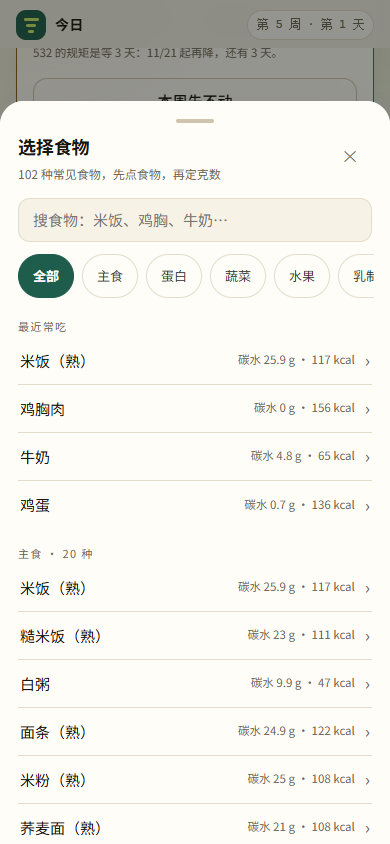
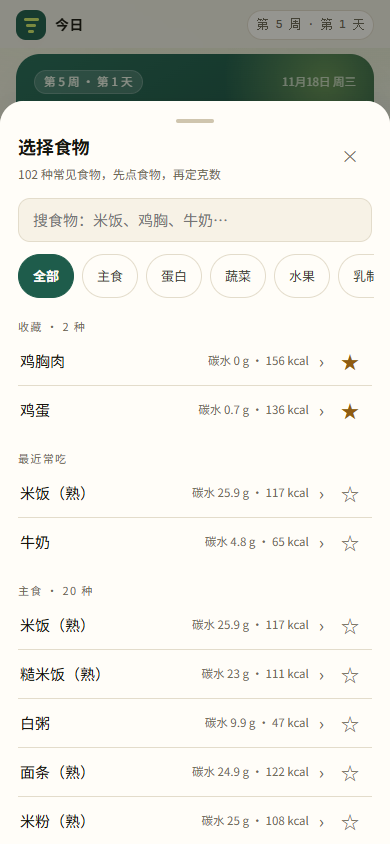
食物收藏置顶与最近 6 周训练量图表（v17）

diff --git a/assets/app.js b/assets/app.js
@@ -498,6 +498,26 @@
 
     var wkStat = C.workoutStats(state, weekStartKey);
     var recentWorkouts = (state.workouts || []).slice().sort(function (a, b) { return a.date < b.date ? 1 : -1; }).slice(0, 4);
+    var wkBars = C.weeklyWorkouts(state, 6).filter(function (x) { return x.week >= 1; });
+    var wkMax = 30;
+    wkBars.forEach(function (x) { if (x.minutes > wkMax) wkMax = x.minutes; });
+    var wkSum = wkBars.reduce(function (s, x) { return s + x.minutes; }, 0);
+    var wkAria = '最近 6 周训练量（分钟）：' + wkBars.map(function (x) {
+      return '第 ' + x.week + ' 周 ' + x.minutes;
+    }).join('，') + '。';
+    var wkChart = wkSum > 0
+      ? '<div class="tchart" role="img" aria-label="' + wkAria + '">' +
+          '<div class="tchart-head"><span class="overline">最近 6 周</span><span class="muted small">分钟</span></div>' +
+          '<div class="tbars">' + wkBars.map(function (x) {
+            var h = x.minutes ? Math.max(6, Math.round((x.minutes / wkMax) * 44)) : 3;
+            return '<div class="tb' + (x.current ? ' is-now' : '') + (x.minutes ? '' : ' is-zero') + '">' +
+              '<b>' + (x.minutes || '') + '</b>' +
+              '<i style="height:' + h + 'px"></i>' +
+              '<span>' + x.week + '</span>' +
+            '</div>';
+          }).join('') + '</div>' +
+        '</div>'
+      : '';
     parts.push(
       '<section class="card">' +
         '<div class="card-head"><h2>训练</h2><button type="button" class="link" data-act="open-workout">记一次</button></div>' +
@@ -506,6 +526,7 @@
           '<div><span class="k">本周时长</span><b>' + wkStat.minutes + '<small> 分钟</small></b></div>' +
           '<div><span class="k">记录总数</span><b>' + (state.workouts || []).length + '<small> 次</small></b></div>' +
         '</div>' +
+        wkChart +
         (recentWorkouts.length
           ? '<ul class="wlist">' + recentWorkouts.map(function (w) {
               return '<li>' +
@@ -1179,11 +1200,17 @@
   }
 
   function foodRow(f) {
-    return '<button type="button" class="food-row" data-act="open-food" data-food="' + f.id + '">' +
-      '<span class="food-name">' + esc(f.name) + '</span>' +
-      '<span class="food-meta">碳水 ' + f.carb + ' g · ' + foodKcal(f) + ' kcal</span>' +
-      '<span class="food-go" aria-hidden="true">›</span>' +
-    '</button>';
+    var fav = C.isFavorite(state, f.id);
+    return '<div class="food-row">' +
+      '<button type="button" class="food-main" data-act="open-food" data-food="' + f.id + '">' +
+        '<span class="food-name">' + esc(f.name) + '</span>' +
+        '<span class="food-meta">碳水 ' + f.carb + ' g · ' + foodKcal(f) + ' kcal</span>' +
+        '<span class="food-go" aria-hidden="true">›</span>' +
+      '</button>' +
+      '<button type="button" class="fav-btn' + (fav ? ' is-on' : '') + '" data-act="fav-food" data-id="' + f.id + '"' +
+        ' aria-pressed="' + (fav ? 'true' : 'false') + '" aria-label="' + (fav ? '取消收藏 ' : '收藏 ') + esc(f.name) + '">' +
+        (fav ? '★' : '☆') + '</button>' +
+    '</div>';
   }
 
   function foodMatch(f, q) {
@@ -1222,8 +1249,17 @@
         '<div class="food-rows">' + items.map(foodRow).join('') + '</div></div>';
     }
 
-    var html = '<div class="food-group"><div class="food-group-title">最近常吃</div>' +
-      '<div class="food-rows">' + recentFoods(4).map(foodRow).join('') + '</div></div>';
+    var html = '';
+    var favs = C.favoriteFoods(state);
+    if (favs.length) {
+      html += '<div class="food-group"><div class="food-group-title">收藏 · ' + favs.length + ' 种</div>' +
+        '<div class="food-rows">' + favs.map(foodRow).join('') + '</div></div>';
+    }
+    var recents = recentFoods(4).filter(function (f) { return !C.isFavorite(state, f.id); });
+    if (recents.length) {
+      html += '<div class="food-group"><div class="food-group-title">最近常吃</div>' +
+        '<div class="food-rows">' + recents.map(foodRow).join('') + '</div></div>';
+    }
 
     C.FOOD_GROUPS.forEach(function (g) {
       var rows = C.FOODS.filter(function (f) { return f.g === g.key; });
@@ -1576,6 +1612,19 @@
         var flist = $('#foodList');
         var fsearch = $('#foodSearch');
         if (flist) flist.innerHTML = foodListHtml(fsearch ? fsearch.value : '', sheet.group);
+        break;
+      case 'fav-food':
+        if (!sheet) break;
+        var favOn = C.toggleFavorite(state, el.dataset.id);
+        saveState();
+        var favList = $('#foodList');
+        if (favList) {
+          var favSearch = $('#foodSearch');
+          var favTop = favList.scrollTop;
+          favList.innerHTML = foodListHtml(favSearch ? favSearch.value : '', sheet.group);
+          favList.scrollTop = favTop;
+        }
+        toast(favOn ? '已收藏，置顶在列表里' : '已取消收藏');
         break;
       case 'back-picker': openSheet({ type: 'picker' }); break;
       case 'open-custom': openSheet({ type: 'custom' }); break;

diff --git a/assets/core.js b/assets/core.js
@@ -282,6 +282,7 @@
       foods: {},
       cheats: [],
       workouts: [],
+      favorites: [],
       settings: { theme: 'auto' }
     };
   }
@@ -329,6 +330,48 @@
     var byType = {};
     list.forEach(function (w) { byType[w.type] = (byType[w.type] || 0) + w.minutes; });
     return { count: list.length, minutes: minutes, byType: byType };
+  }
+
+  /* 最近 n 周的训练量（按 532 的周切分，含本周；无记录为 0） */
+  function weeklyWorkouts(state, weeks) {
+    weeks = Math.max(1, Math.round(toNum(weeks, 6)));
+    var list = state.workouts || [];
+    var cur = Math.max(1, Math.floor(diffDaysKeys(state.startDate, todayKey()) / 7) + 1);
+    var out = [];
+    for (var i = weeks - 1; i >= 0; i--) {
+      var wk = cur - i;
+      if (wk < 1) { out.push({ week: wk, minutes: 0, count: 0, current: false }); continue; }
+      var from = addDaysKey(state.startDate, 7 * (wk - 1));
+      var to = addDaysKey(state.startDate, 7 * wk - 1);
+      var minutes = 0, count = 0;
+      list.forEach(function (w) {
+        if (w.date >= from && w.date <= to) { minutes += w.minutes; count++; }
+      });
+      out.push({ week: wk, from: from, to: to, minutes: minutes, count: count, current: wk === cur });
+    }
+    return out;
+  }
+
+  /* 收藏（置顶在食物选择器里） */
+  function isFavorite(state, id) {
+    return (state.favorites || []).indexOf(id) >= 0;
+  }
+
+  function toggleFavorite(state, id) {
+    state.favorites = state.favorites || [];
+    var i = state.favorites.indexOf(id);
+    if (i >= 0) { state.favorites.splice(i, 1); return false; }
+    state.favorites.push(id);
+    return true;
+  }
+
+  function favoriteFoods(state) {
+    var ids = state.favorites || [];
+    var out = [];
+    ids.forEach(function (id) {
+      for (var i = 0; i < FOODS.length; i++) if (FOODS[i].id === id) { out.push(FOODS[i]); return; }
+    });
+    return out;
   }
 
   /* 按新资料 / 体重重算基准（保留已下调的碳水） */
@@ -534,6 +577,10 @@
     addWorkout: addWorkout,
     removeWorkout: removeWorkout,
     workoutStats: workoutStats,
+    weeklyWorkouts: weeklyWorkouts,
+    isFavorite: isFavorite,
+    toggleFavorite: toggleFavorite,
+    favoriteFoods: favoriteFoods,
 
     round: round, toNum: toNum, clamp: clamp,
     toKey: toKey, fromKey: fromKey, todayKey: todayKey,

diff --git a/assets/app.css b/assets/app.css
@@ -983,22 +983,59 @@ input, select { font: inherit; color: inherit; }
 .food-row {
   display: flex;
   align-items: center;
-  gap: 10px;
+  gap: 2px;
   width: 100%;
+  min-height: 48px;
+  border-bottom: 1px solid var(--line);
+}
+.food-row:last-child { border-bottom: 0; }
+
+.food-main {
+  display: flex;
+  align-items: center;
+  gap: 10px;
+  flex: 1;
+  min-width: 0;
   min-height: 48px;
   padding: 10px 2px;
   border: 0;
-  border-bottom: 1px solid var(--line);
   background: none;
   color: var(--ink);
   text-align: left;
   cursor: pointer;
 }
-.food-row:last-child { border-bottom: 0; }
-.food-row:active { background: var(--card-2); }
+.food-main:active { background: var(--card-2); }
+
+.fav-btn {
+  flex: none;
+  width: 44px;
+  height: 44px;
+  min-width: 44px;
+  min-height: 44px;
+  border: 0;
+  background: none;
+  color: var(--muted);
+  font-size: 1.125rem;
+  line-height: 1;
+  cursor: pointer;
+  border-radius: 12px;
+}
+.fav-btn.is-on { color: var(--amber); }
+.fav-btn:active { background: var(--card-2); }
 .food-name { flex: 1; min-width: 0; font-size: 0.9375rem; overflow: hidden; text-overflow: ellipsis; white-space: nowrap; }
 .food-meta { flex: none; font-size: 0.7188rem; color: var(--muted); font-variant-numeric: tabular-nums; }
 .food-go { flex: none; font-size: 1.0625rem; color: var(--muted); }
+
+/* 训练量小图 */
+.tchart { margin: 12px 0 2px; }
+.tchart-head { display: flex; align-items: baseline; justify-content: space-between; margin-bottom: 6px; }
+.tbars { display: flex; align-items: flex-end; gap: 6px; height: 66px; }
+.tb { flex: 1; display: flex; flex-direction: column; align-items: center; justify-content: flex-end; gap: 4px; min-width: 0; }
+.tb b { font-family: var(--mono); font-size: 0.6875rem; color: var(--muted); line-height: 1; }
+.tb i { display: block; width: 100%; max-width: 44px; border-radius: 6px 6px 3px 3px; background: var(--card-2); }
+.tb.is-now i { background: var(--green); }
+.tb.is-zero i { background: var(--line); }
+.tb span { font-size: 0.6875rem; color: var(--muted); font-variant-numeric: tabular-nums; }
 
 /* 每日体重记录 */
 .wlist { list-style: none; margin: 4px 0 0; padding: 0; }

diff --git a/index.html b/index.html
@@ -16,7 +16,7 @@
 <meta name="mobile-web-app-capable" content="yes">
 <meta name="apple-mobile-web-app-status-bar-style" content="default">
 <meta name="apple-mobile-web-app-title" content="532 碳降">
-<link rel="stylesheet" href="assets/app.css?v=16">
+<link rel="stylesheet" href="assets/app.css?v=17">
 </head>
 <body>
 <div class="page">
@@ -173,7 +173,7 @@
 
 <noscript><p class="noscript">这个应用需要开启 JavaScript 才能计算方案。</p></noscript>
 
-<script src="assets/core.js?v=16"></script>
-<script src="assets/app.js?v=16"></script>
+<script src="assets/core.js?v=17"></script>
+<script src="assets/app.js?v=17"></script>
 </body>
 </html>

diff --git a/sw.js b/sw.js
@@ -5,7 +5,7 @@
  *
  * 发版：把下面 V 加 1，并同步改 index.html 里三处 ?v=（app.css / core.js / app.js）。
  */
-var V = '16';
+var V = '17';
 var CACHE = 'carb532-v' + V;
 var SHELL = [
   './',

diff --git a/README.md b/README.md
@@ -47,7 +47,9 @@
 
 **记一餐**：今日页「快速添加」默认给最近常吃的 6 个食物，点一下选份量就能加；常吃的会自己往前排。要找别的点「全部食物 102 种」，可以按名称或别名搜（如「鸡」「牛奶」「土豆」「拿铁」），也可以按主食 / 蛋白 / 蔬菜 / 水果 / 乳制品 / 坚果油脂 / 零食饮品分组翻；份量表里还有「自定义一份」直接填碳水、蛋白、脂肪。食物库是每 100 g 的营养值（常见近似值），带默认份量和搜索别名，共 102 种。
 
-**记训练**：记录页「训练 → 记一次」可以记力量 / 有氧 / 球类 / 其他和分钟数，列表能删、删错了能撤销。训练只做记录，**不会改动 532 的碳水和热量目标**——这套方法靠饮食调碳水，练多练少不动目标；要手动改热量用「我的 → 方案参数 → 手动总消耗」。
+**收藏常吃的**：选择器里每行右边有星标，点一下就把这个食物收藏，收藏的会以「收藏 · N 种」置顶，不用每次翻组；再点星即可取消。
+
+**记训练**：记录页「训练 → 记一次」可以记力量 / 有氧 / 球类 / 其他和分钟数，列表能删、删错了能撤销；卡片上还有「最近 6 周」的周训练量条形图，本周那根是深绿色。训练只做记录，**不会改动 532 的碳水和热量目标**——这套方法靠饮食调碳水，练多练少不动目标；要手动改热量用「我的 → 方案参数 → 手动总消耗」。
 
 **记体重**：每天固定时间称一次，记录页的「补记」可以选过去的日期（按日期存，一天一条，同一天再记会覆盖），点任意一行能改那一天的数字。只有每周第 7 天的记录参与周结算，其余天数只进曲线。
 

diff --git a/docs/hig-review.md b/docs/hig-review.md
@@ -177,3 +177,14 @@
 | 与 532 的关系 | 训练只做记录，不改碳水与热量目标；卡底注明「想调整热量请用『方案参数 → 手动总消耗』」 | 记录训练后 hero 的 kcal 与碳水不变 |
 
 设计取舍：训练不进入任何公式，是因为 532 的调节量只有碳水一个变量——如果把训练消耗也折进热量，就会变成「少吃一点 / 多动一点」的模糊判断，破坏「只调碳水」的可执行性。以后要做「训练影响热量」，应当作为独立开关而不是默认行为。
+
+---
+
+## 后续（v17）：收藏常吃与周训练量
+
+| 改动 | 说明 | 验证 |
+| --- | --- | --- |
+| 食物收藏 | 选择器每行右侧 44×44 星标（`aria-pressed` + `aria-label`），收藏项以「收藏 · N 种」置顶；最近常吃会自动排除已收藏，避免重复 | 收藏鸡胸肉、鸡蛋后顶部出现「收藏 · 2 种」，星星变琥珀色实心；最近常吃只剩米饭、牛奶 |
+| 周训练量图表 | 训练卡加「最近 6 周」柱状图（从第 1 周起，不含开始前），柱高按周分钟数等比，本周柱用深绿，零值周只画 3px 基线；整块 `role="img"` + 带数值的 `aria-label` | 第 4 周 110 分钟、第 5 周 30 分钟，本周柱深绿；`node test/core.test.cjs` 20 项全过 |
+
+这两处都沿用既有视觉语言：星标用琥珀（与「待调碳」同一语义色），图表只给本周上色，不再引入新颜色。
